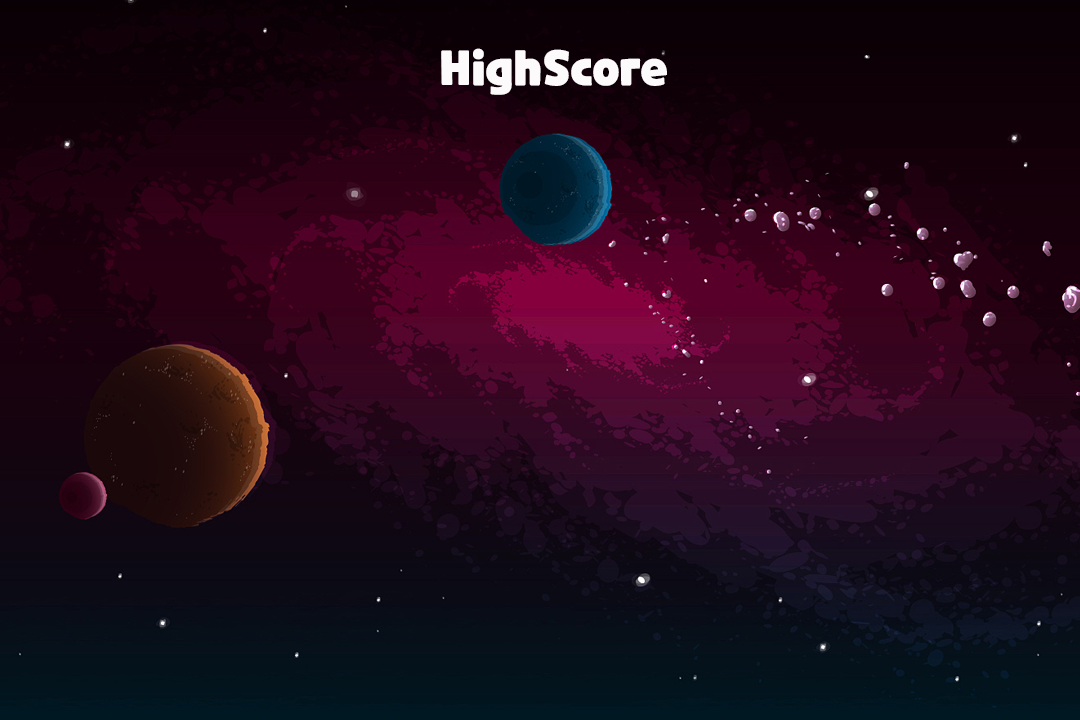
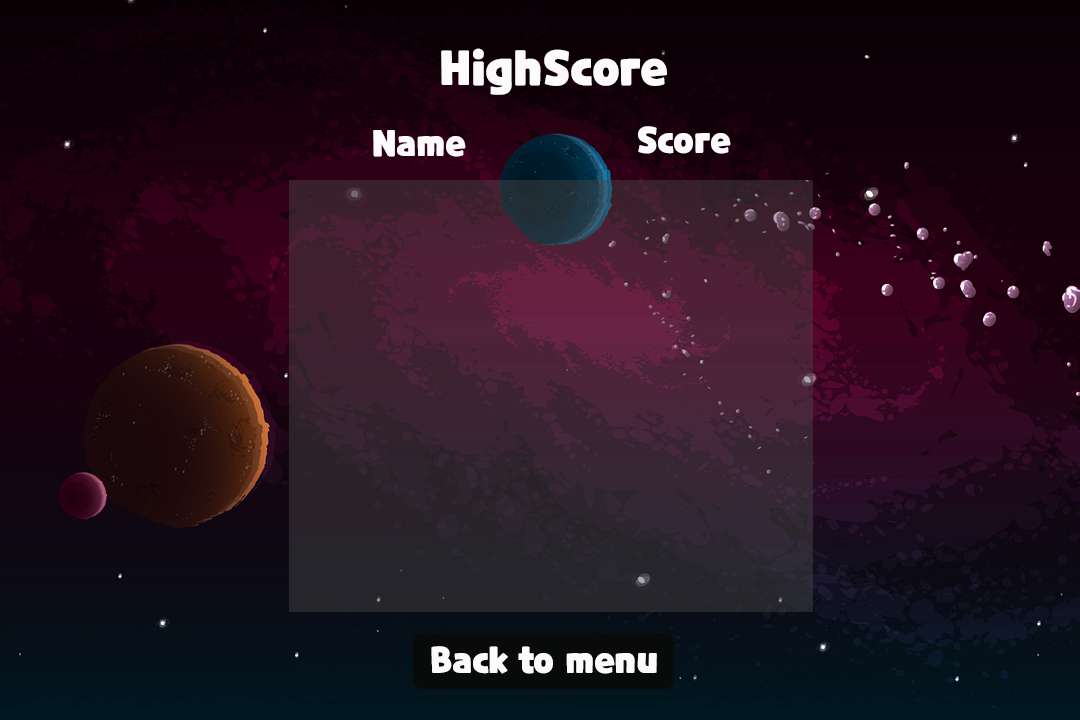
new

diff --git a/RAKAI game/main.cpp b/RAKAI game/main.cpp
@@ -157,7 +157,6 @@ int main()
 	Sound5.setBuffer(soundover);
 
 	//Scorestar
-	int countscorestar = 0;
 	sf::Font font;
 	font.loadFromFile("a/CookieRun-Bold.otf");
 	std::ostringstream score;
@@ -433,6 +432,11 @@ int main()
 	sf::RectangleShape hh(sf::Vector2f(1080, 720));
 	hh.setTexture(&High);
 
+	sf::Texture backHigh;
+	backHigh.loadFromFile("a/highscoree1.png");
+	sf::RectangleShape bh(sf::Vector2f(1080, 720));
+	bh.setTexture(&High);
+
 	sf::String playerInput;
 	std::ofstream fileWriter;
 	std::ostringstream keyname;
@@ -442,11 +446,11 @@ int main()
 	Keyname.setFont(font);
 	Keyname.setFillColor(sf::Color::Cyan);
 
+	int i = 0;
 	int Bul = 0;
 	int count = 0;
-	int i = 0;
-	int soundcount = 0;
 	int state = 0;
+	int soundcount = 0;
 
 	float deltaTime = 0.0f;
 	float countTimeAdd = 0;
@@ -475,7 +479,6 @@ int main()
 	std::map<int, std::string> keepscore;
 	std::ifstream fileReader;
 	std::string word;
-
 
 	/*Modify textbox*/
 	char last_char = ' ';
@@ -565,14 +568,17 @@ int main()
 				}
 			}
 		}
-
 		while (Rank == true) {
-
+			
+			sf::Vector2f mouesPosition = sf::Vector2f(0.0f, 0.0f);
+			mouesPosition = window.mapPixelToCoords(sf::Mouse::getPosition(window));
+			cout << sf::Mouse::getPosition(window).x << " " << sf::Mouse::getPosition(window).y << endl;
+			
 			window.clear();
 			window.draw(hh);
-			sf::Text text("", font);
-			text.setCharacterSize(30);
-			text.setFillColor(sf::Color::White);
+			sf::Text text1("", font);
+			text1.setCharacterSize(30);
+			text1.setFillColor(sf::Color::White);
 			fileReader.open("database/new.txt");
 			do {
 				fileReader >> word;
@@ -587,22 +593,28 @@ int main()
 			beg--;
 			int currentDisplay = 0;
 			for (std::map<int, std::string>::iterator it = end; it != beg; it--) {
-				text.setString(it->second);
-				text.setPosition(450, 200 + 80 * currentDisplay);
-				window.draw(text);
-				text.setString(std::to_string(it->first));
-				text.setPosition(600, 200 + 80 * currentDisplay);
-				window.draw(text);
+				text1.setString(it->second);
+				text1.setPosition(view.getCenter().x - 170 , 210 + 80 * currentDisplay);
+				window.draw(text1);
+				text1.setString(std::to_string(it->first));
+				text1.setPosition(view.getCenter().x + 95 , 210 + 80 * currentDisplay);
+				window.draw(text1);
 				currentDisplay++;
-				if (currentDisplay == 7)
+				if (currentDisplay == 5)
 				{
 					break;
 				}
 			}
-			if (sf::Keyboard::isKeyPressed(sf::Keyboard::Escape))
+			if (sf::Mouse::getPosition(window).x >= 416 &&
+				sf::Mouse::getPosition(window).y >= 636 &&
+				sf::Mouse::getPosition(window).x <= 665 &&
+				sf::Mouse::getPosition(window).y <= 685)
 			{
-				Rank = false;
-				MENU = true;
+				if (sf::Mouse::isButtonPressed(sf::Mouse::Left))
+				{
+					Rank = false;
+					MENU = true;
+				}
 			}
 			window.display();
 		}
@@ -844,7 +856,7 @@ int main()
 		while (START == true) {
 			//std::cout << "player pos :" << player.GetPosition().y << std::endl;
 			slide = false;
-			count = player.GetPosition().x;
+			count = 10;
 
 			deltaTime = clock.restart().asSeconds();
 			sf::Vector2f pos = player.GetPosition();
@@ -1315,7 +1327,6 @@ int main()
 					bullet1.draw(window);
 					for (i = 0; i < alienVector.size(); i++) {
 						if (alienVector[i].hit() == 1) {
-							countscorestar += 500;
 							hppush.str(" ");
 							hppush << "+500";
 							bulA.setString(hppush.str());
